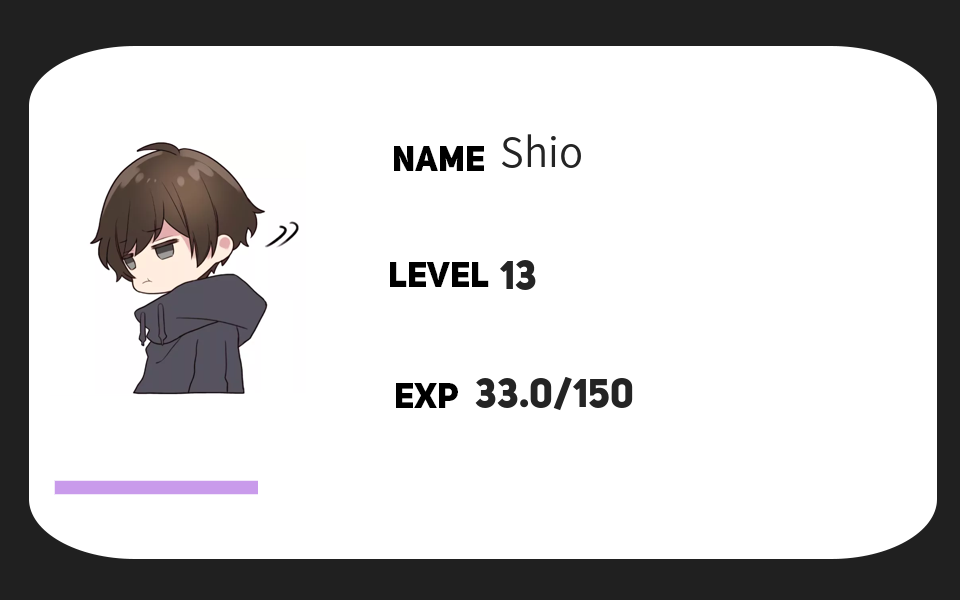
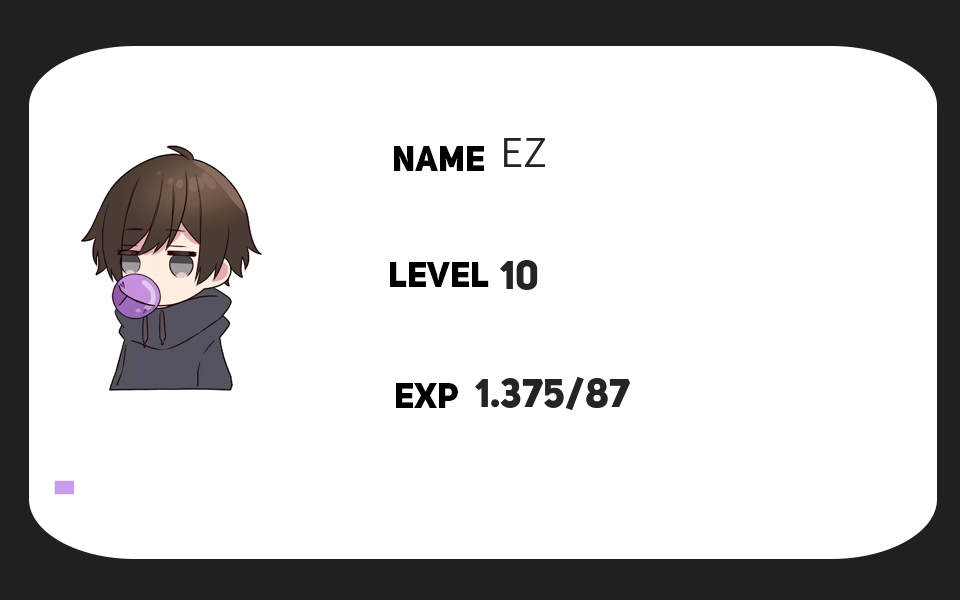
레벨링 수정

diff --git a/cogs/levelling.py b/cogs/levelling.py
@@ -90,8 +90,8 @@ class Levelling(commands.Cog):
     async def 레벨(self, ctx):
         if (ctx.message.mentions.__len__() > 0):
             for user in ctx.message.mentions:
-                if os.path.isfile("./lib/users/" + str(ctx.author.id) + ".xlsx"):
-                    wb = openpyxl.load_workbook("./lib/users/" + str(ctx.author.id) + ".xlsx")
+                if os.path.isfile("./lib/users/" + str(user.id) + ".xlsx"):
+                    wb = openpyxl.load_workbook("./lib/users/" + str(user.id) + ".xlsx")
                     ws = wb.active
                     exp = ws.cell(row=4, column=2).value
                     lvl = ws.cell(row = 2, column = 2).value
